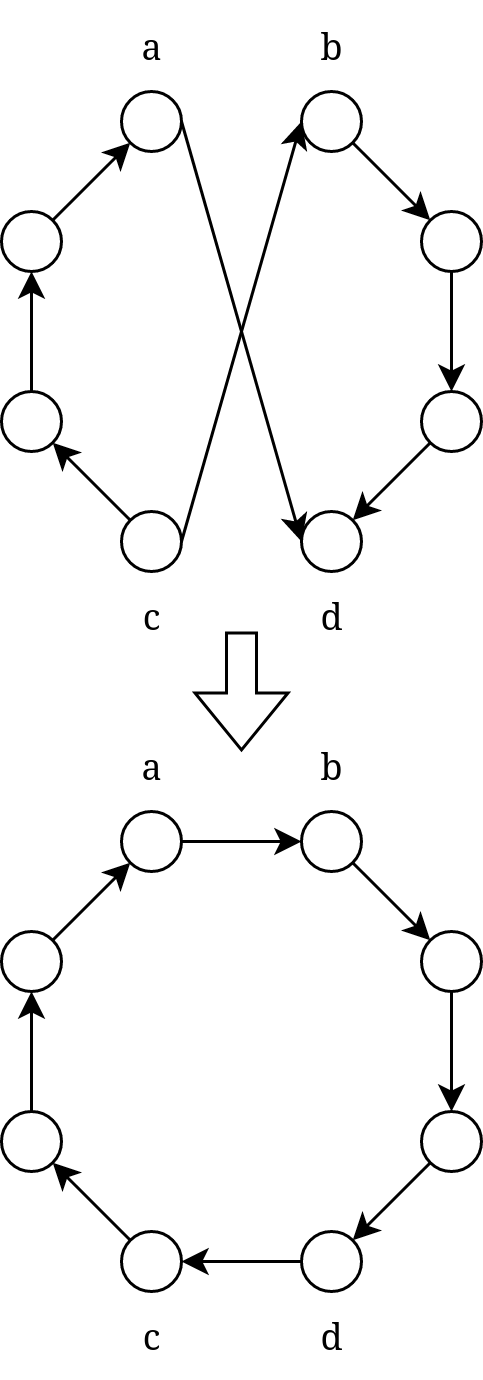
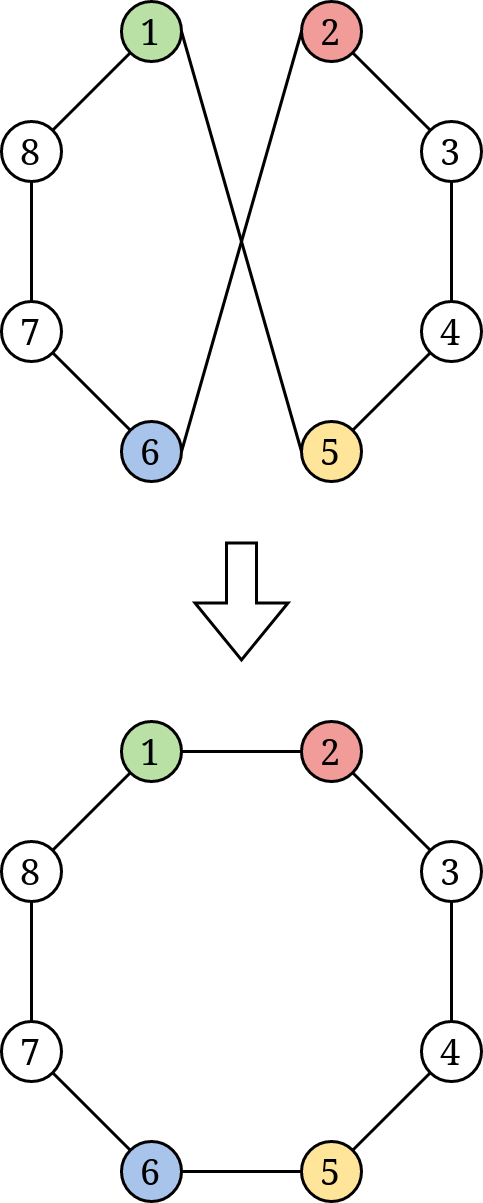
Homework 3: Add path relinker to paper, add basic results section, add discussions, add conclusions

diff --git a/docs/h3.tex b/docs/h3.tex
@@ -332,21 +332,86 @@ A flow diagram of the algorithm can be found in figure \ref{Combinatorial PSO al
 \end{figure}
 
 \subsection{2-opt algorithm operator}
-The 2-opt algorithm is a local search algorithm developed by Croes. It aims to recombine edges in the MTSP tour such that
-better alternatives are found, until no more updates can be performed. At each, the algorithm checks wether the objective
-function returned better result than the currently known one \cite{b8}.
+The 2-opt algorithm is a local search algorithm first proposed by Croes in 1958, with the bassic moves suggested by Flood.
+It aims to recombine edges in the MTSP tour such that better alternatives are found, until no more updates can be performed.
+At each, the algorithm checks wether the objective function returned better result than the currently known one \cite{b8}.
+The main idea of the algorithm is to ensure that there are no edges in a route that cross over themselves \cite{b9}.
 
 A diagram showing how the algorithm works is provided in figure \ref{2-opt algorithm sample} below.
 
 \begin{figure}[h]
     \centering
-    \includegraphics[width=0.15\textwidth]{images/2-opt.png}
+    \includegraphics[width=0.175\textwidth]{images/2-opt.png}
     \caption{2-opt algorithm sample} \label{2-opt algorithm sample}
 \end{figure}
 
-This operator aims to simulate a PSO's particle's velocity and independent movement.
+This operator aims to replace a PSO's particle's velocity and independent movement.
 
 \subsection{Path-relinker algorithm operator}
+The relinking procedure (Glover et al. 2004) is used to generate new solutions by exploring trajectories confined in the neighbourhood space
+that connect high-quality solutions. The solution that begins the path is named the initiating solution, while the solution
+ending the path is named the guiding solution \cite{b10}.
+
+In literature, multiple variants can be found for this procedure, categorised by how the path is built between the initiating
+solution and the guiding solution: forward relinking, backward relinking, backward-and-forward relinking, relinking (Glover
+et al. 1996, implemented by Resende and Ribeiro 2010a), greedy randomised adaptive path relinking and evolutionary path-relinking \cite{b11}.
+Each variant has its own set of advantages and disadvantages. In the computational experiments performed by Aiex et al. (2005),
+backward relinking stood out as better performing than forward relinking, and had equivalent performance as backward-and-forward relinking,
+but with lower computational costs \cite{b11}.
+
+In this paper, the backward path relinking was used. Thus, the initial solution was the current individual's position and the
+guiding solution was - depending on the function call - the individual's best position or the global best position.
+
+A sample can be found in figure \ref{Path-relinker algorithm sample} below. When step 4 is reached, no other better paths moving
+towards the given guiding solution could be found, thus the algorithm returns the solution built at step 4.
+
+\begin{figure}[h]
+    \centering
+    \includegraphics[width=0.45\textwidth]{images/path-relinker.png}
+    \caption{Path-relinker algorithm sample} \label{Path-relinker algorithm sample}
+\end{figure}
+
+This operator aims to replace a PSO's particle's tendency towards their personal best and the global best.
+
+\subsection{Swap operator}
+For the PSO algorithm, the same swap + slide + reverse-swap operator as the genetic algorithm was used with remarkable success.
+During the first implementation of the algorithm, only a simple swap of two elements was used as in figure \ref{Swap operation},
+but the results it produced were 10-20\% worse overall. As an example, for the eil51 dataset with 2 salesmen, the simple swap operator
+produced a mean value of 569, while the mean value for the swap + slide + reverse-swap operator was 489.
+
+This operator aims to enhance PSO's exploration of the problem space by introducing more randomness with which 2-opt and
+path-relinker can work.
+
+\section{Results}
+The algorithms were run using the following datasets:
+\begin{enumerate}
+    \item \texttt{eil51}, a 51-city MTSP problem by Christofides/Eilon
+    \item \texttt{berlin51}, a 52-locations MTSP problem by Groetschel based on real-life Berlin, Germany
+    \item \texttt{eil76}, a 76-city MTSP problem by Christofides/Eilon
+    \item \texttt{rat99}, a 99-locations MTSP problem by Pulleyblank
+\end{enumerate}
+
+Each of the datasets was run with $n \in \{2, 3, 5\}$ salesmen. The runs were executed on a machine with an Intel Core i7
+1260p processor at a constant frequency of 2GHz, using 10 of the 12 physical cores available. The algorithms can run on as
+little as 1GB of RAM.
+
+%The results of the runs can be seen in tables \ref{a}, \ref{} for the genetic algorithm, tables \ref{}, \ref{} for the
+%PSO, and visualisations can be seen on figures \ref{}, \ref{}, on the next pages.
+
+\section{Discussions}
+The two algorithms detailed in this paper were successful in finding near-optimal results for the MTSP problem datasets used
+in this paper. Their runtimes - albeit high from a normal user perspective - exhibit a notable reduction in comparison when
+compared to those of the CPLEX algorithm (GA 1m36s, PSO 4m45s, CPLEX 10080m for \texttt{rat99}, $n = 5$ salesmen). In this paper,
+the Genetic algorithm provided better results, was faster overall and needed far fewer modifications to work with combinatorial
+data. As for the particle swarm optimisation algorithm, the runtime was higher, but the results were comparable to the genetic
+algorithm.
+
+\section{Conclusions}
+Optimisation algorithms like Genetic Algorithms and Particle Swarm Optimisation - often used for numerical function optimisation -
+can be used for combinatorial function optimisation like MTSP with some modifications. The results of running the alforementioned
+algorithms on combinatorial functions are often near-optimal, all while showing superior time efficiency. The algorithms can
+further be improved through stochastic hyperparameter tuning or through hybridisation.
+
 
 \begin{thebibliography}{00}
     \bibitem{b1} O. Cheikhrouhou, I. Khoufi (2021). ``A comprehensive survey on the Multiple Traveling Salesman Problem: Applications, approaches and taxonomy''. Computer Science Review, 40, 100369. doi: 10.1016/j.cosrev.2021.1003.
@@ -354,13 +419,12 @@ This operator aims to simulate a PSO's particle's velocity and independent movem
     \bibitem{b3} S. Mirjalili (2018). ``Particle Swarm Optimisation. Evolutionary Algorithms and Neural Networks''. 15-31. doi: 10.1007/978-3-319-93025-1\_2.
     \bibitem{b4} M. A. Al-Furhud, Z. H. Ahmed (2020). ``Experimental Study of a Hybrid Genetic Algorithm for the Multiple Travelling Salesman Problem''. Mathematical Problems in Engineering, vol. 2020, p. 3431420. doi: 10.1155/2020/3431420.
     \bibitem{b5} \url{https://profs.info.uaic.ro/~mtsplib/MinMaxMTSP/index.html}
-    \bibitem{b6} P. Singamsetty, J. K. Thenepalledoi (2021). ``An efficient genetic algorithm for solving open multiple travelling salesman problem with load
-    balancing constraint''. Department of Mathematics, School of Advanced Sciences, VIT, Vellore-632014, Tamil Nadu, India. doi: 10.5267/j.dsl.2021.5.003
-    \bibitem{b7} D. R. Singh, M. K. Singh, T. Singh, R. Prasad (2018). ``Genetic algorithm for solving multiple traveling salesmen
-    problem using a new crossover and population generation''. Computación y Sistemas, 22(2).
-    \bibitem{b8} S. D. Gulcu, H. K. Ornek (2019). ``Solution of Multiple Travelling Salesman Problem using Particle Swarm
-    Optimization based Algorithms''. International Journal of
-    Intelligent Systems and Applications in Engineering. ISSN: 2147-6799
+    \bibitem{b6} P. Singamsetty, J. K. Thenepalledoi (2021). ``An efficient genetic algorithm for solving open multiple travelling salesman problem with load balancing constraint''. Department of Mathematics, School of Advanced Sciences, VIT, Vellore-632014, Tamil Nadu, India. doi: 10.5267/j.dsl.2021.5.003
+    \bibitem{b7} D. R. Singh, M. K. Singh, T. Singh, R. Prasad (2018). ``Genetic algorithm for solving multiple traveling salesmen problem using a new crossover and population generation''. Computación y Sistemas, 22(2).
+    \bibitem{b8} S. D. Gulcu, H. K. Ornek (2019). ``Solution of Multiple Travelling Salesman Problem using Particle Swarm Optimization based Algorithms''. International Journal of Intelligent Systems and Applications in Engineering. ISSN: 2147-6799
+    \bibitem{b9} \url{https://en.wikipedia.org/wiki/2-opt}
+    \bibitem{b10} B. Penga, Zhipeng Lü, T.C.E. Cheng (2014). ``A Tabu Search/Path Relinking Algorithm to Solve the Job Shop Scheduling Problem''. hool of Computer Science and Technology, Huazhong University of Science and Technology, Wuhan, 430074, P.R. China. doi: 10.48550/arXiv.1402.5613
+    \bibitem{b11} C. C. C. Ribeiro, M. G. C. Resend (2010). ``Path-relinking intensification methods for stochastic Local Search Algorithms''. Department of Computer Science, Universidade Federal Fluminense, Rua Passo da Pátria, 156, Niteráoi, RJ 24210-240 Brazil. URL: \url{https://mauricio.resende.info/doc/spr.pdf}
 \end{thebibliography}
     
 \end{document}
